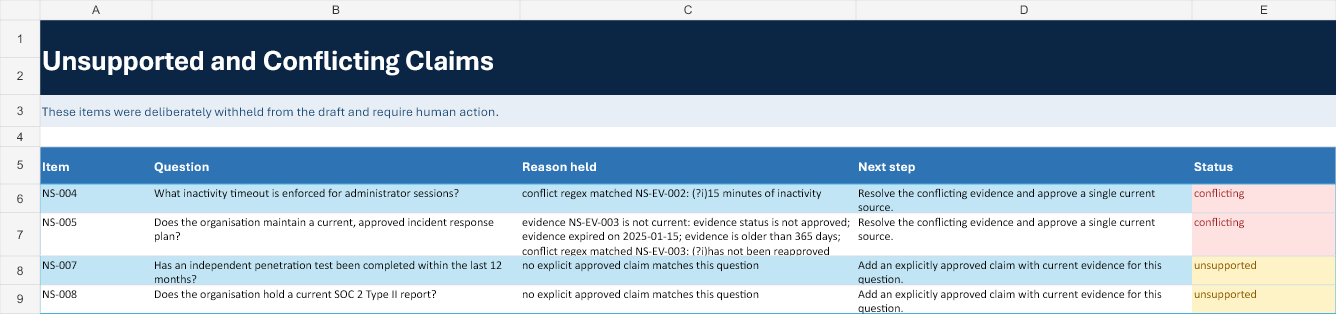
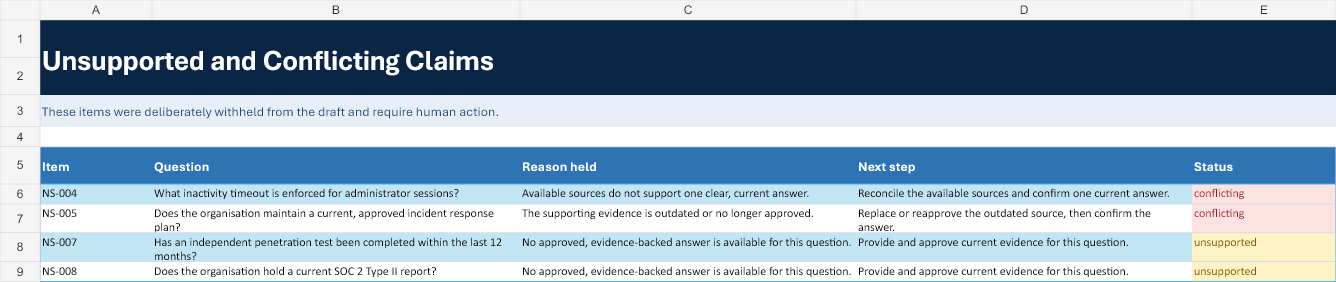
Polish pilot copy and sample output

diff --git a/public/index.html b/public/index.html
@@ -209,9 +209,9 @@
         <aside class="status-card" aria-label="Preview status">
           <span class="status-label">Free pilot proof</span>
           <h2>One repeatable client workflow, not another GRC dashboard.</h2>
-          <p>For MSPs and vCISOs handling at least two questionnaires a month. One business, three operators, unlimited local client folders is the entitlement hypothesis to test.</p>
+          <p>For MSPs and vCISOs handling at least two questionnaires a month. Selected pilots receive a guided local setup for one business and up to three operators; client evidence stays in separate local folders.</p>
           <p class="price">€499 <small>/ 12 months</small></p>
-          <p>Pricing hypothesis only. This page does not sell or process anything.</p>
+          <p>Proposed post-pilot price. Free pilot participants are not charged.</p>
           <div class="approval"><strong>No checkout is enabled.</strong><br>Any product-price, payment-provider, account, or checkout change requires explicit owner approval.</div>
         </aside>
       </div>
@@ -326,8 +326,6 @@
           <a class="source" href="https://www.ncsc.gov.uk/collection/cloud/the-cloud-security-principles"><strong>NCSC Cloud Security Principles</strong><span>SaaS assertions, responsibilities, and evidence</span></a>
           <a class="source" href="https://www.ncsc.gov.uk/section/software-security-code-of-practice/software-customers"><strong>NCSC guidance for software customers</strong><span>Cross-checking vendor claims over time</span></a>
           <a class="source" href="https://digital-strategy.ec.europa.eu/en/library/nis2-commission-implementing-regulation-critical-entities-and-networks"><strong>EU NIS2 implementing requirements</strong><span>Current requirements affecting MSPs and MSSPs</span></a>
-          <a class="source" href="https://www.conveyor.com/pricing"><strong>Conveyor pricing</strong><span>Category budget anchor; Business starts at $9,600/year</span></a>
-          <a class="source" href="https://responsehub.ai/responsehub-for-mssps/"><strong>ResponseHub for MSSPs</strong><span>Service-provider category evidence; $1,000 paid pilot</span></a>
         </div>
       </div>
     </section>
@@ -335,10 +333,10 @@
     <section>
       <div class="wrap">
         <div class="final-card">
-          <div><h2>Test the real sample before payment exists.</h2><p>The software proof is downloadable now. The €499 commercial hypothesis targets ten sales per month, but payment remains disabled until qualified pilots validate demand and the owner explicitly approves checkout.</p></div>
+          <div><h2>Inspect the sample outputs, then request a free pilot.</h2><p>The public downloads are synthetic Excel and Word outputs, not the software itself. Selected pilots receive a guided local setup after the scope and a safe private hand-off are agreed. No checkout or payment link is enabled.</p></div>
           <div>
             <a class="button primary" href="https://github.com/antisociale6/security-review-pack-builder/issues/new?template=pilot-request.yml">Request free pilot</a>
-            <p class="privacy-note">Public intake; non-sensitive business ranges only.</p>
+            <p class="privacy-note">Public intake; every business-volume question includes “Prefer not to say.”</p>
           </div>
         </div>
       </div>

diff --git a/README.md b/README.md
@@ -41,8 +41,8 @@ The tool does not certify compliance, provide legal advice, prove that a
 control operates effectively, or submit a questionnaire. An authorised person
 must review every draft before it is shared.
 
-The working price hypothesis is **€499 for 12 months**. No checkout or payment
-link is enabled during the free pilot.
+The proposed post-pilot price is **€499 for 12 months**. Free pilot participants
+are not charged, and no checkout or payment link is enabled.
 
 ## Requesting a pilot safely
 
@@ -56,7 +56,8 @@ ranges. Do **not** include:
 - vulnerability details.
 
 Your GitHub username is enough for follow-up. Pilot evidence stays on your own
-machine; it is not uploaded through this repository.
+machine; it is not uploaded through this repository. Selected pilots receive a
+guided local setup only after the scope and a safe private hand-off are agreed.
 
 ## Repository scope
 
